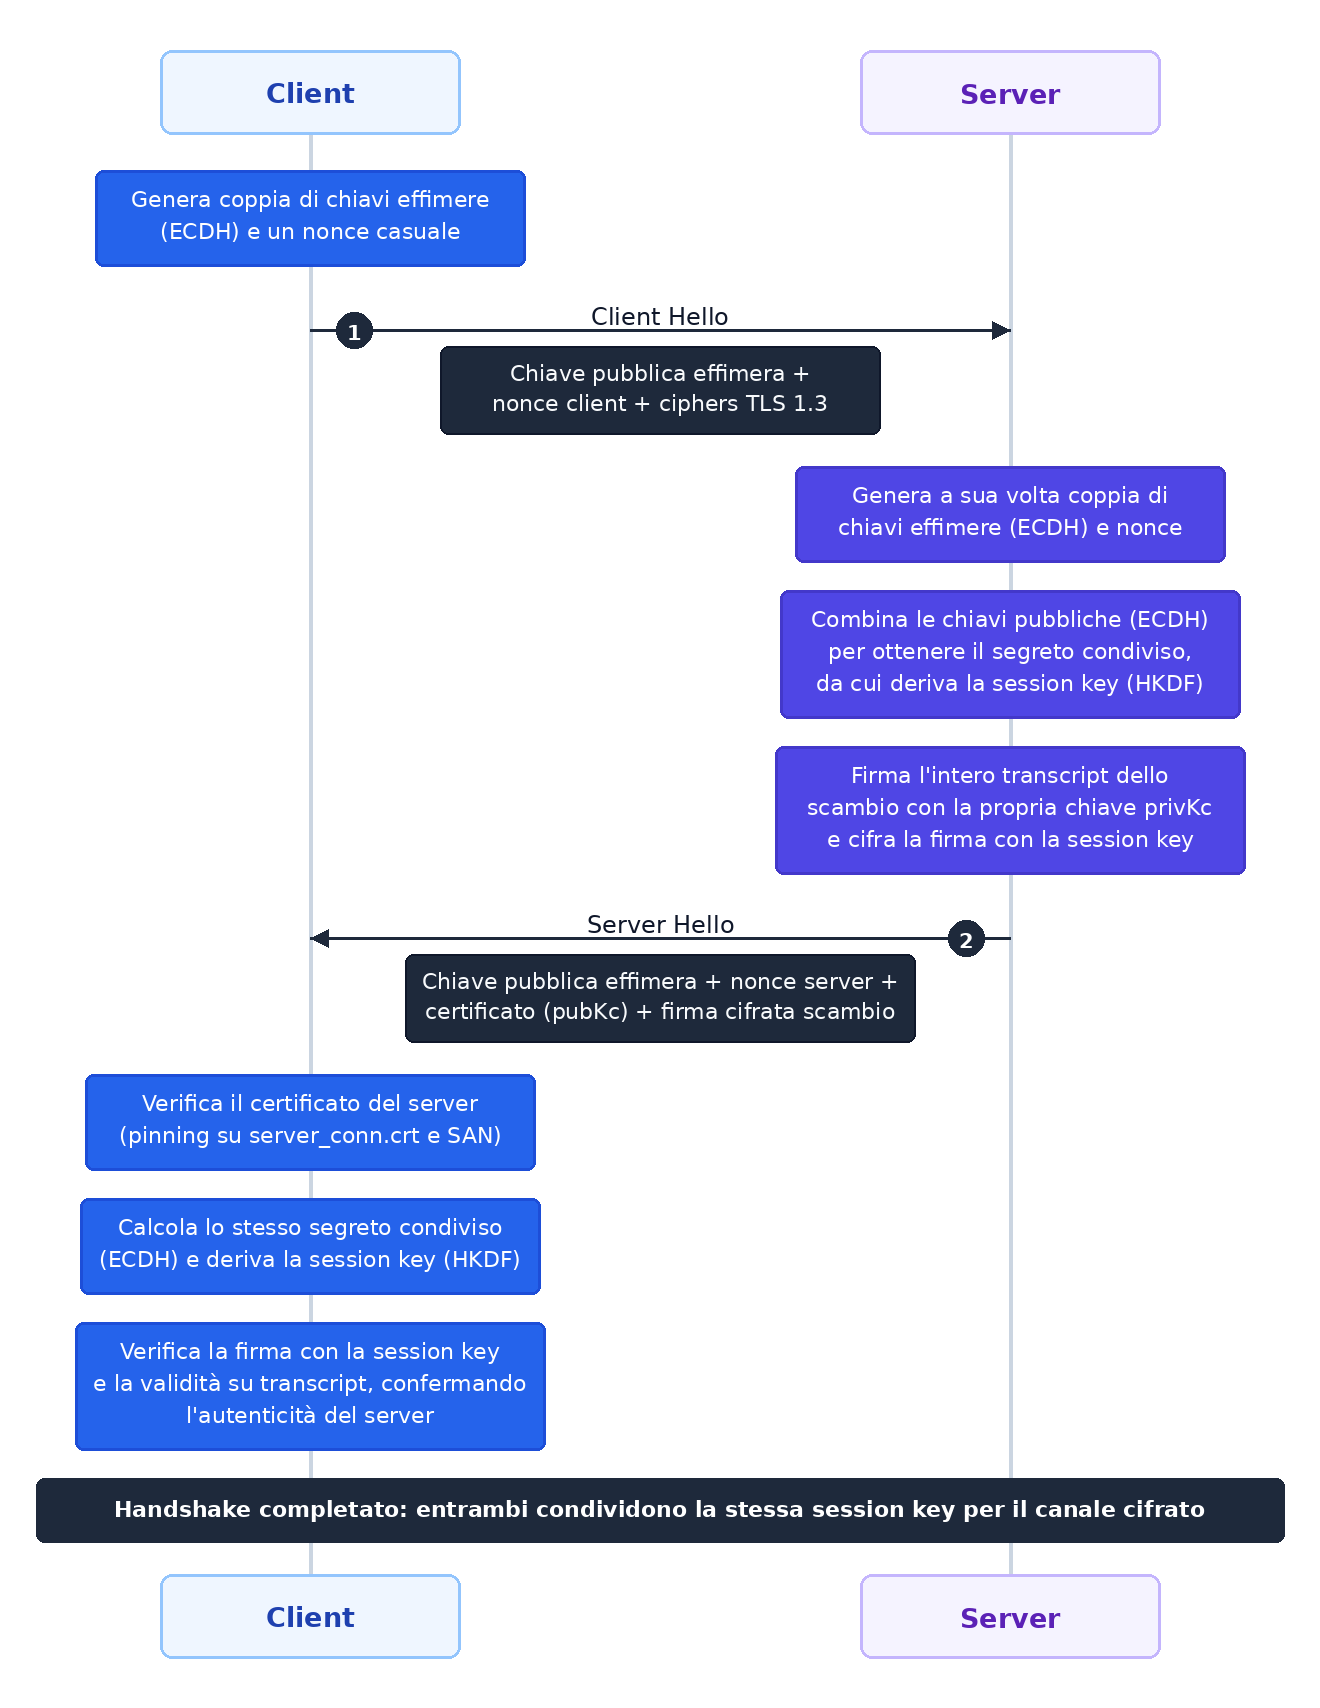
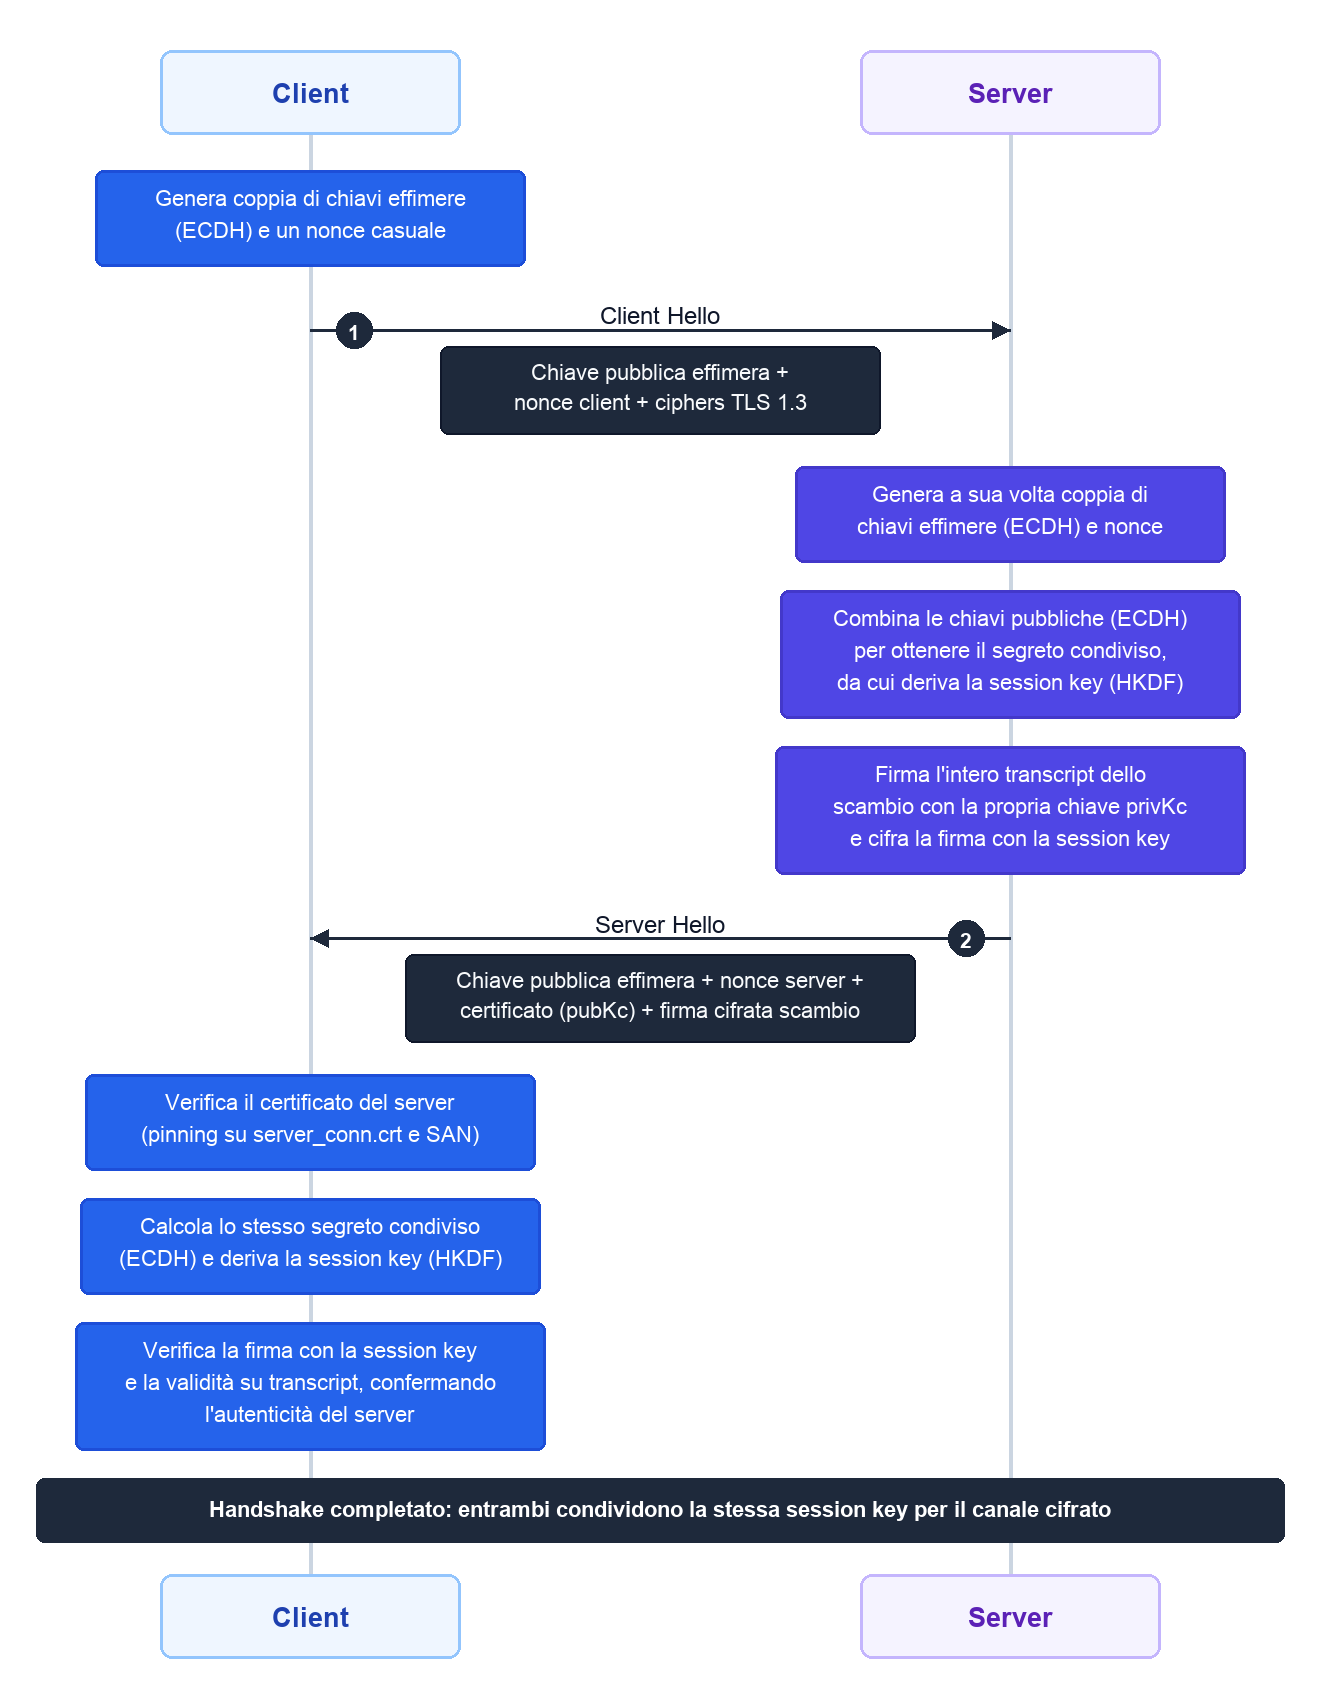
Rimosso nonce client

diff --git a/server/tss_server.cpp b/server/tss_server.cpp
@@ -290,7 +290,7 @@ int create_server_socket(int port) {
     server_addr.sin_addr.s_addr = htonl(INADDR_ANY);
     server_addr.sin_port = htons(static_cast<uint16_t>(port));
 
-    if (bind(server_fd, reinterpret_cast<sockaddr*>(&server_addr), sizeof(server_addr)) < 0) {
+    if (::bind(server_fd, reinterpret_cast<sockaddr*>(&server_addr), sizeof(server_addr)) < 0) {
         perror("[ERRORE] Bind fallito");
         close(server_fd);
         return -1;
@@ -328,7 +328,6 @@ void handle_client(SSL* ssl, int client_fd, string client_ip, int client_port) {
     // Stato di Sessione del Client
     bool is_authenticated = false;
     string authenticated_user;
-    string client_nonce;
     string server_nonce;
     uint64_t expected_seq = 1;
 
@@ -368,11 +367,11 @@ void handle_client(SSL* ssl, int client_fd, string client_ip, int client_port) {
                 continue;
             }
 
-            if (!req.contains("username") || !req.contains("password") || !req.contains("nonce_c") ||
-                !req["username"].is_string() || !req["password"].is_string() || !req["nonce_c"].is_string()) {
+            if (!req.contains("username") || !req.contains("password") ||
+                !req["username"].is_string() || !req["password"].is_string()) {
                 json resp = {
                     {"status", "ERROR"},
-                    {"message", "Parametri LOGIN mancanti o non validi (richiesti: username, password, nonce_c)"}
+                    {"message", "Parametri LOGIN mancanti o non validi (richiesti: username, password)"}
                 };
                 tss::send_json_message(ssl, resp);
                 continue;
@@ -380,12 +379,11 @@ void handle_client(SSL* ssl, int client_fd, string client_ip, int client_port) {
 
             string username = req["username"].get<string>();
             string password = req["password"].get<string>();
-            string nonce_c = req["nonce_c"].get<string>();
 
-            if (username.empty() || password.empty() || nonce_c.empty()) {
+            if (username.empty() || password.empty()) {
                 json resp = {
                     {"status", "ERROR"},
-                    {"message", "Credenziali o nonce_c non possono essere vuoti"}
+                    {"message", "Credenziali non possono essere vuote"}
                 };
                 tss::send_json_message(ssl, resp);
                 continue;
@@ -408,12 +406,11 @@ void handle_client(SSL* ssl, int client_fd, string client_ip, int client_port) {
             string nonce_s = tss::generate_nonce_hex(16);
             is_authenticated = true;
             authenticated_user = username;
-            client_nonce = nonce_c;
             server_nonce = nonce_s;
             expected_seq = 1;
 
             cout << "[+] Autenticazione RIUSCITA per '" << username << "' da " << client_id 
-                 << " (Nonce_C: " << client_nonce.substr(0, 8) << "... | Nonce_S: " << server_nonce.substr(0, 8) << "...)" << endl;
+                 << " (Nonce_S: " << server_nonce.substr(0, 8) << "...)" << endl;
 
             json resp = {
                 {"status", "OK"},

diff --git a/scripts/generate_diagrams.py b/scripts/generate_diagrams.py
@@ -90,8 +90,8 @@ ARROW_TEXT = "#0f172a"
 CIRCLE_BG = "#1e293b"
 CIRCLE_TEXT = "#ffffff"
 
-FONT_REGULAR_PATH = "/usr/share/fonts/truetype/dejavu/DejaVuSans.ttf"
-FONT_BOLD_PATH = "/usr/share/fonts/truetype/dejavu/DejaVuSans-Bold.ttf"
+FONT_REGULAR_PATH = "/System/Library/Fonts/Supplemental/Arial.ttf"
+FONT_BOLD_PATH = "/System/Library/Fonts/Supplemental/Arial Bold.ttf"
 
 
 class FlowDiagram:
@@ -520,15 +520,10 @@ def make_fig2_login():
 
     d.add_span("Canale sicuro già stabilito (handshake TLS 1.3 completato)", style="info", height=32)
 
-    d.add_note(0, [
-        "Genera nonce crittografico",
-        "del client Nc (16B CSPRNG)"
-    ], width=205)
-
     d.add_message(0, 1, 'Login (email/username + password)', payload_lines=[
         '{"cmd": "LOGIN", "username": "alice",',
-        '"password": "...", "nonce_c": "Nc"}'
-    ], step_num=1, payload_width=245)
+        '"password": "..."}'
+    ], step_num=1, payload_width=220)
 
     d.add_note(1, [
         "Verifica le credenziali in memoria",

diff --git a/client/tss_client.cpp b/client/tss_client.cpp
@@ -390,14 +390,10 @@ int main(int argc, char* argv[]) {
         }
     }
 
-    // Generazione nonce client per freschezza della sessione
-    string nonce_c = tss::generate_nonce_hex(16);
-
     json login_req = {
         {"cmd", "LOGIN"},
         {"username", username},
-        {"password", password},
-        {"nonce_c", nonce_c}
+        {"password", password}
     };
 
     if (!tss::send_json_message(ssl, login_req)) {
@@ -431,7 +427,6 @@ int main(int argc, char* argv[]) {
 
     string nonce_s = login_resp.value("nonce_s", "");
     cout << "[OK] Autenticazione completata con successo per l'utente '" << username << "'!" << endl;
-    cout << "     Nonce Client : " << nonce_c << endl;
     cout << "     Nonce Server : " << nonce_s << endl;
 
     print_help();

diff --git a/include/common.hpp b/include/common.hpp
@@ -10,7 +10,13 @@
 #include <cstring>
 #include <cstdint>
 #include <stdexcept>
+#ifdef __APPLE__
+#include <machine/endian.h>
+#include <libkern/OSByteOrder.h>
+#define htobe64(x) OSSwapHostToBigInt64(x)
+#else
 #include <endian.h>
+#endif
 #include <arpa/inet.h>
 
 #include <openssl/ssl.h>
